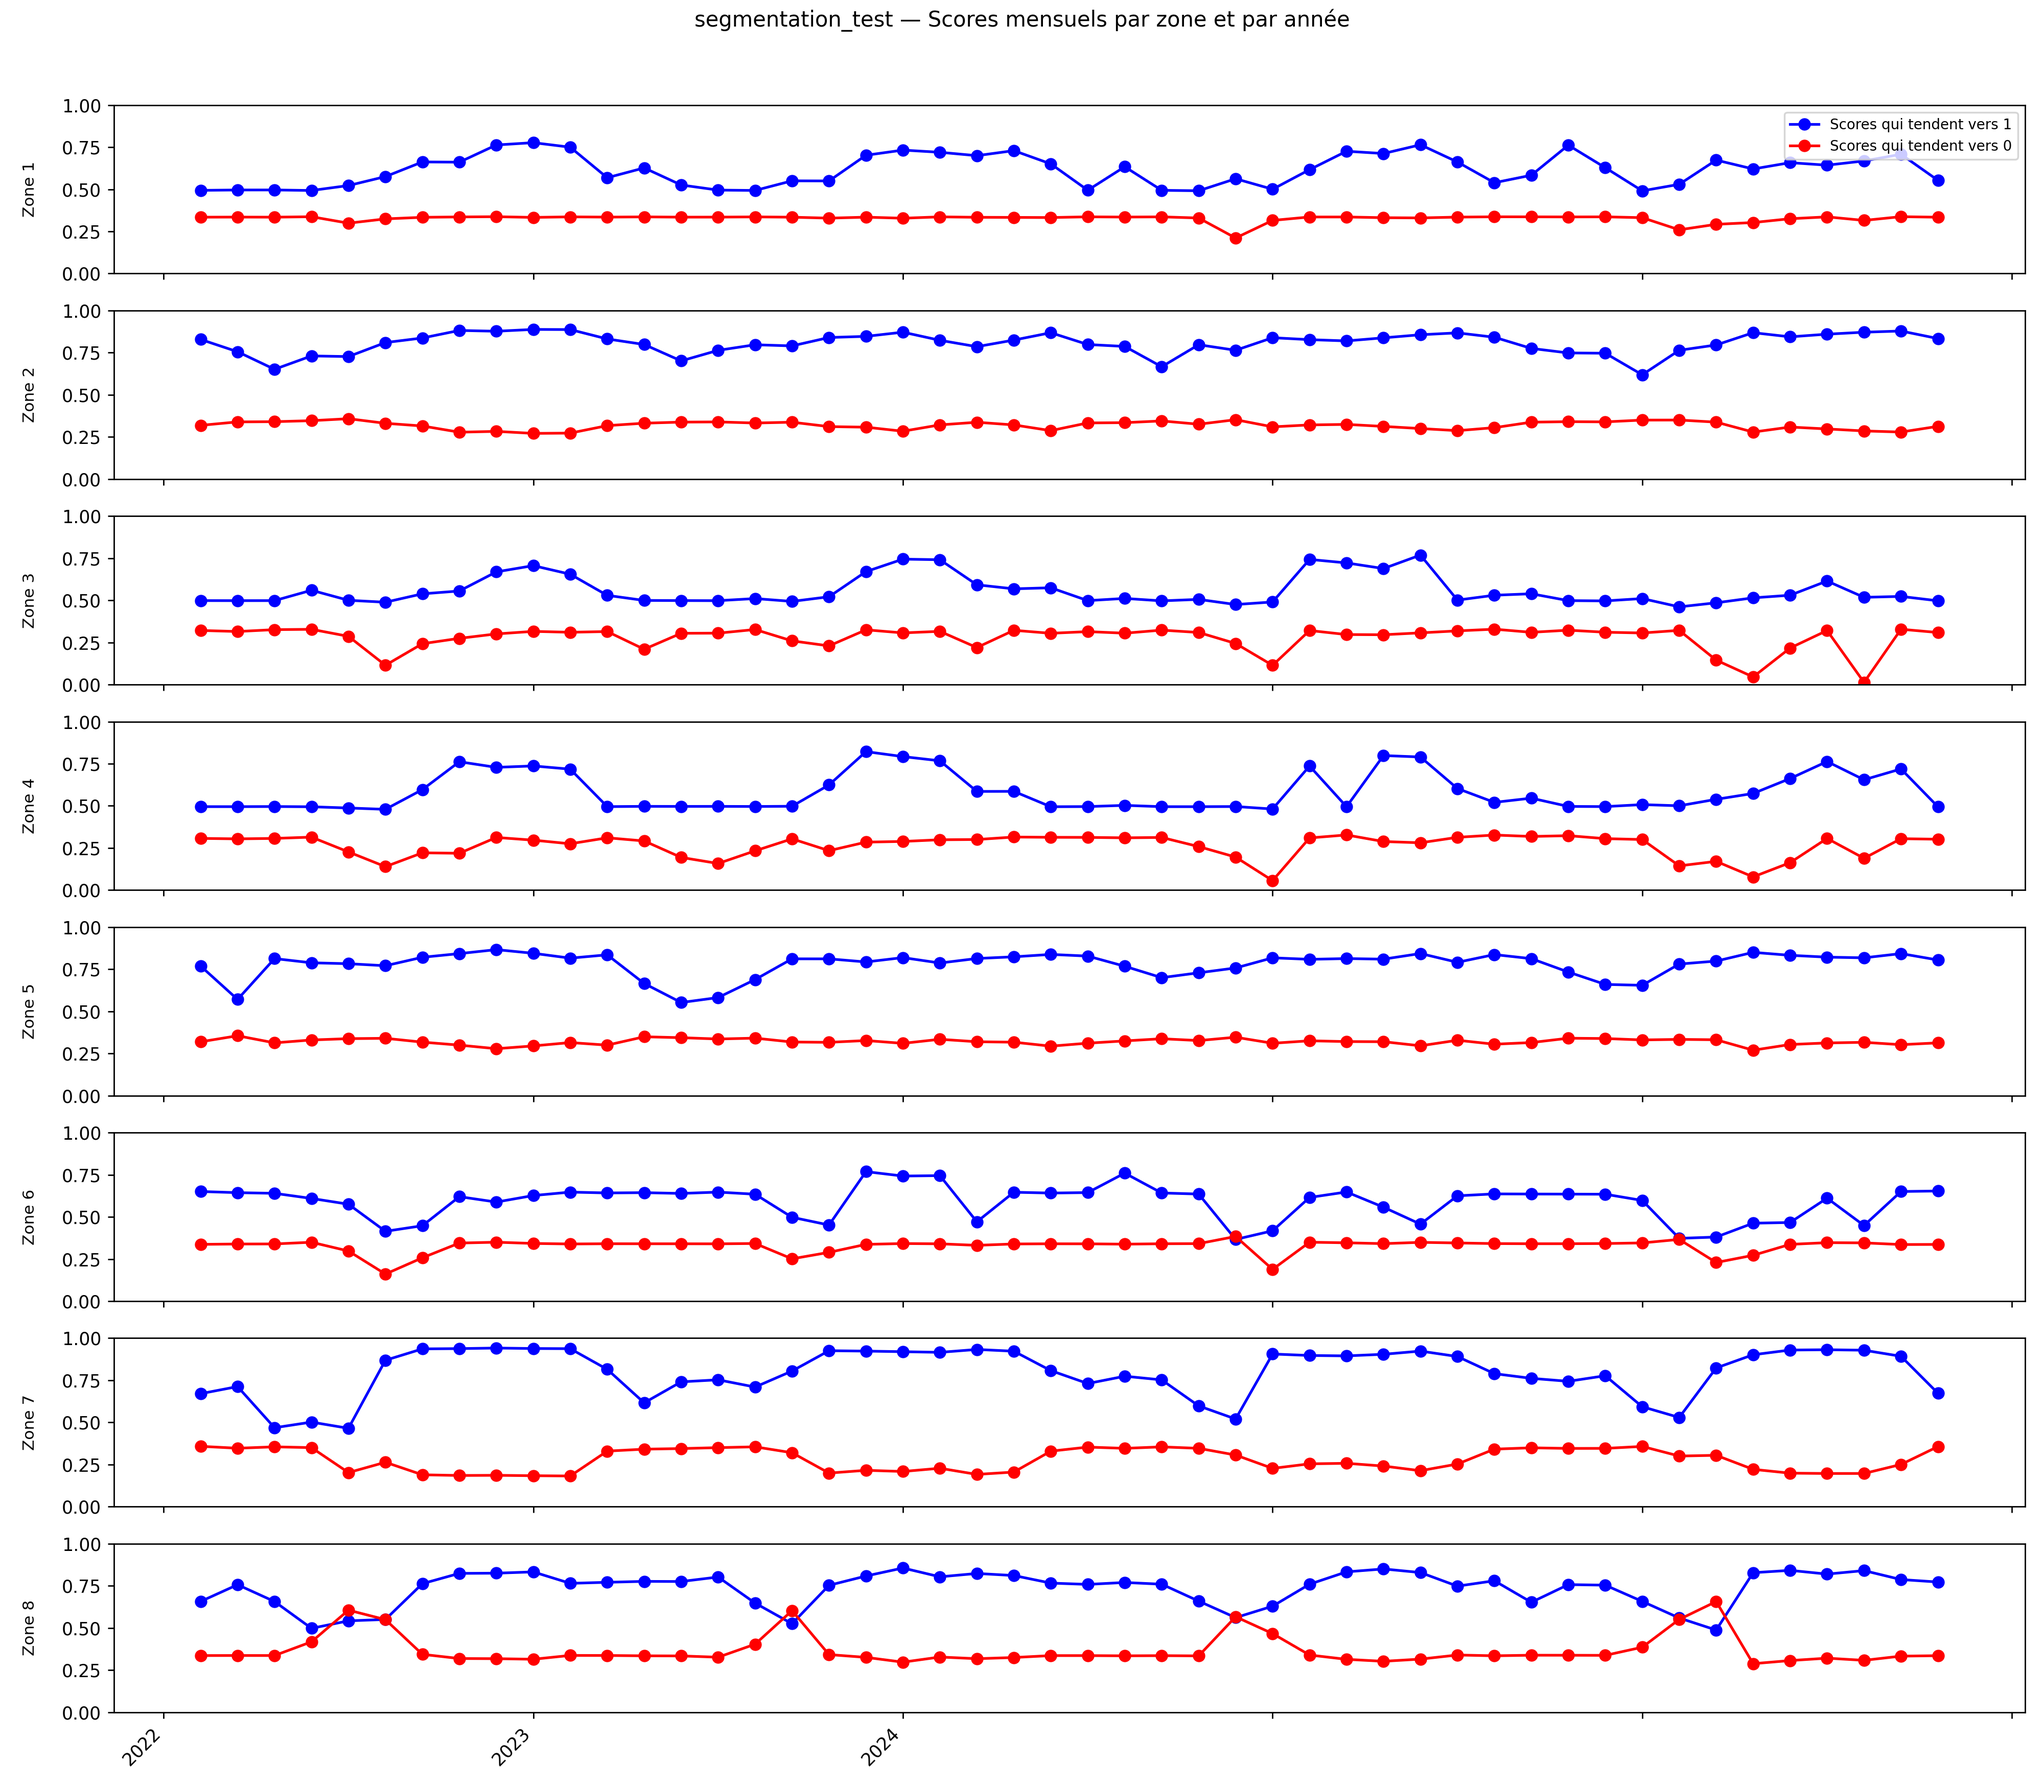
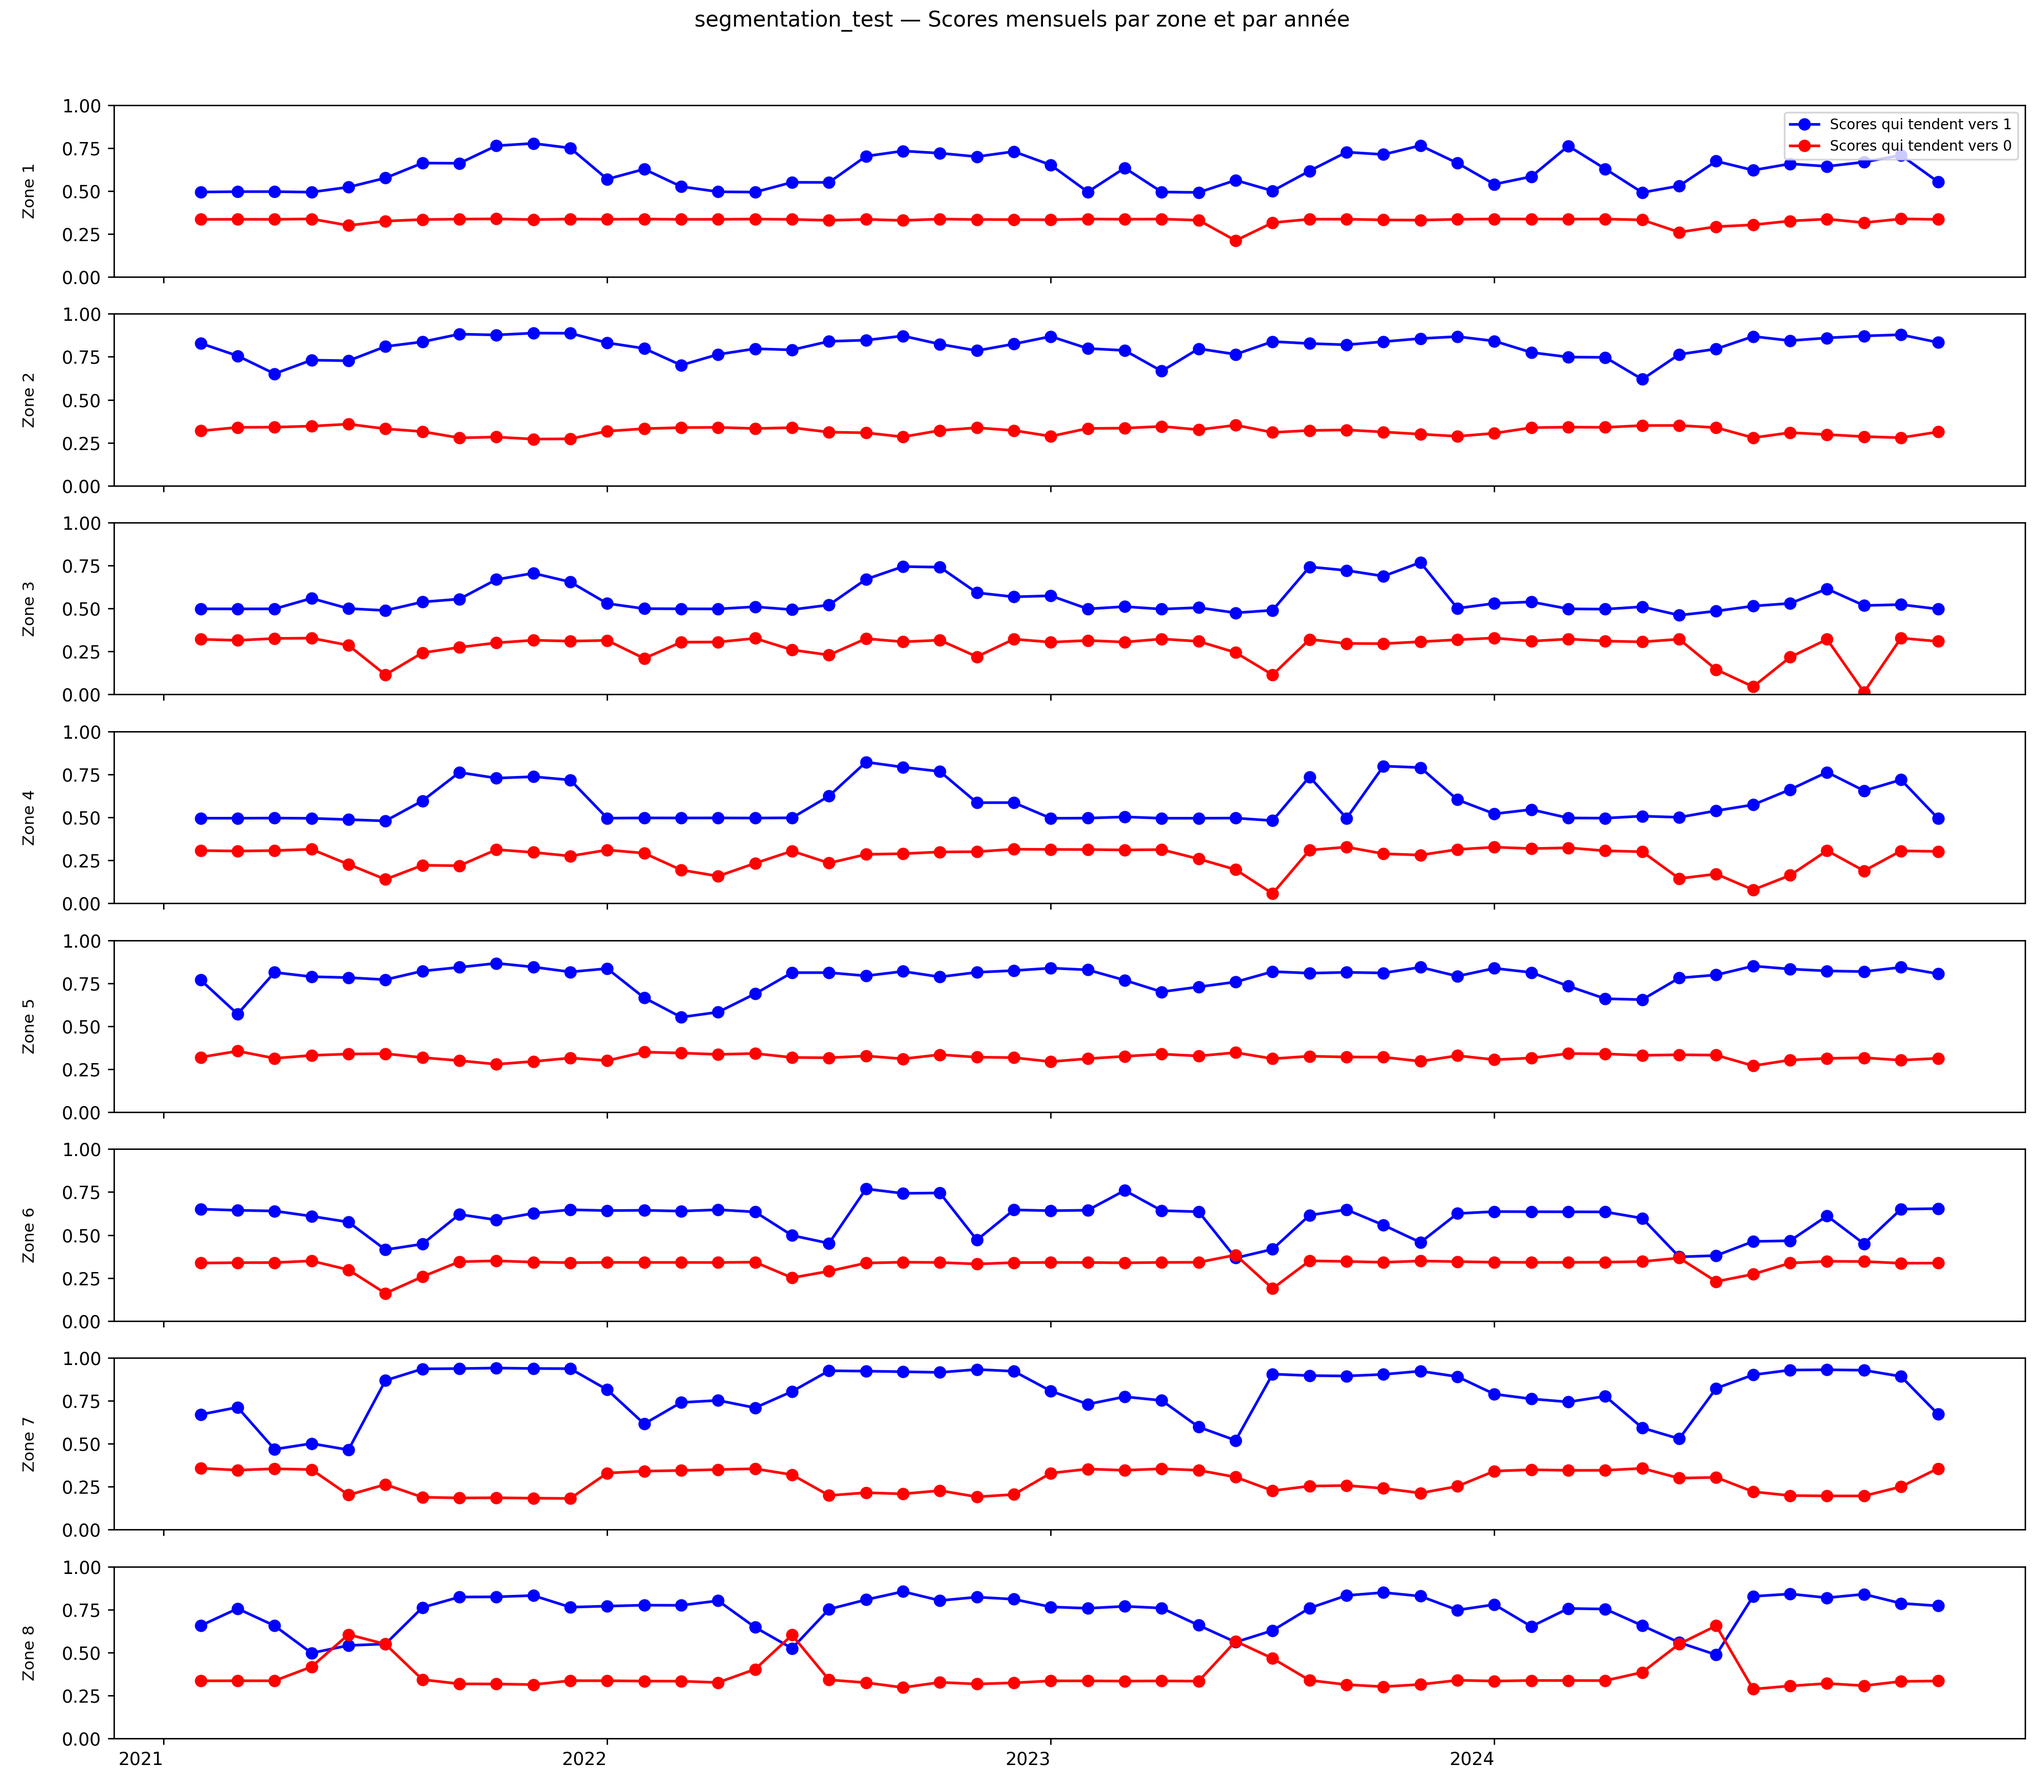
modification du graphe des scores

diff --git a/codes/fonctions_scores.py b/codes/fonctions_scores.py
@@ -346,14 +346,11 @@ def graphe_scores(fonction_segmentation: Callable[[MaskedArray], ndarray],
         if i == 0:
             ax.legend(loc="upper right", fontsize=8)
         
-        ax.set_xticklabels(annees, rotation=45, ha="right")
+        annees_str = [str(annee) for annee in annees]
+        annees_positions = [i*12 for i in range(len(annees))]
 
-        #else:
-        #    ax.set_xticklabels([])
-
-        #if i == 0:
-        #    ax.set_title(f"{annee}", fontsize=10)
-
+        ax.set_xticks(annees_positions)
+        ax.set_xticklabels(annees_str, ha="right")
         ax.set_ylabel(f"Zone {zone}\n", fontsize=9)
 
 
